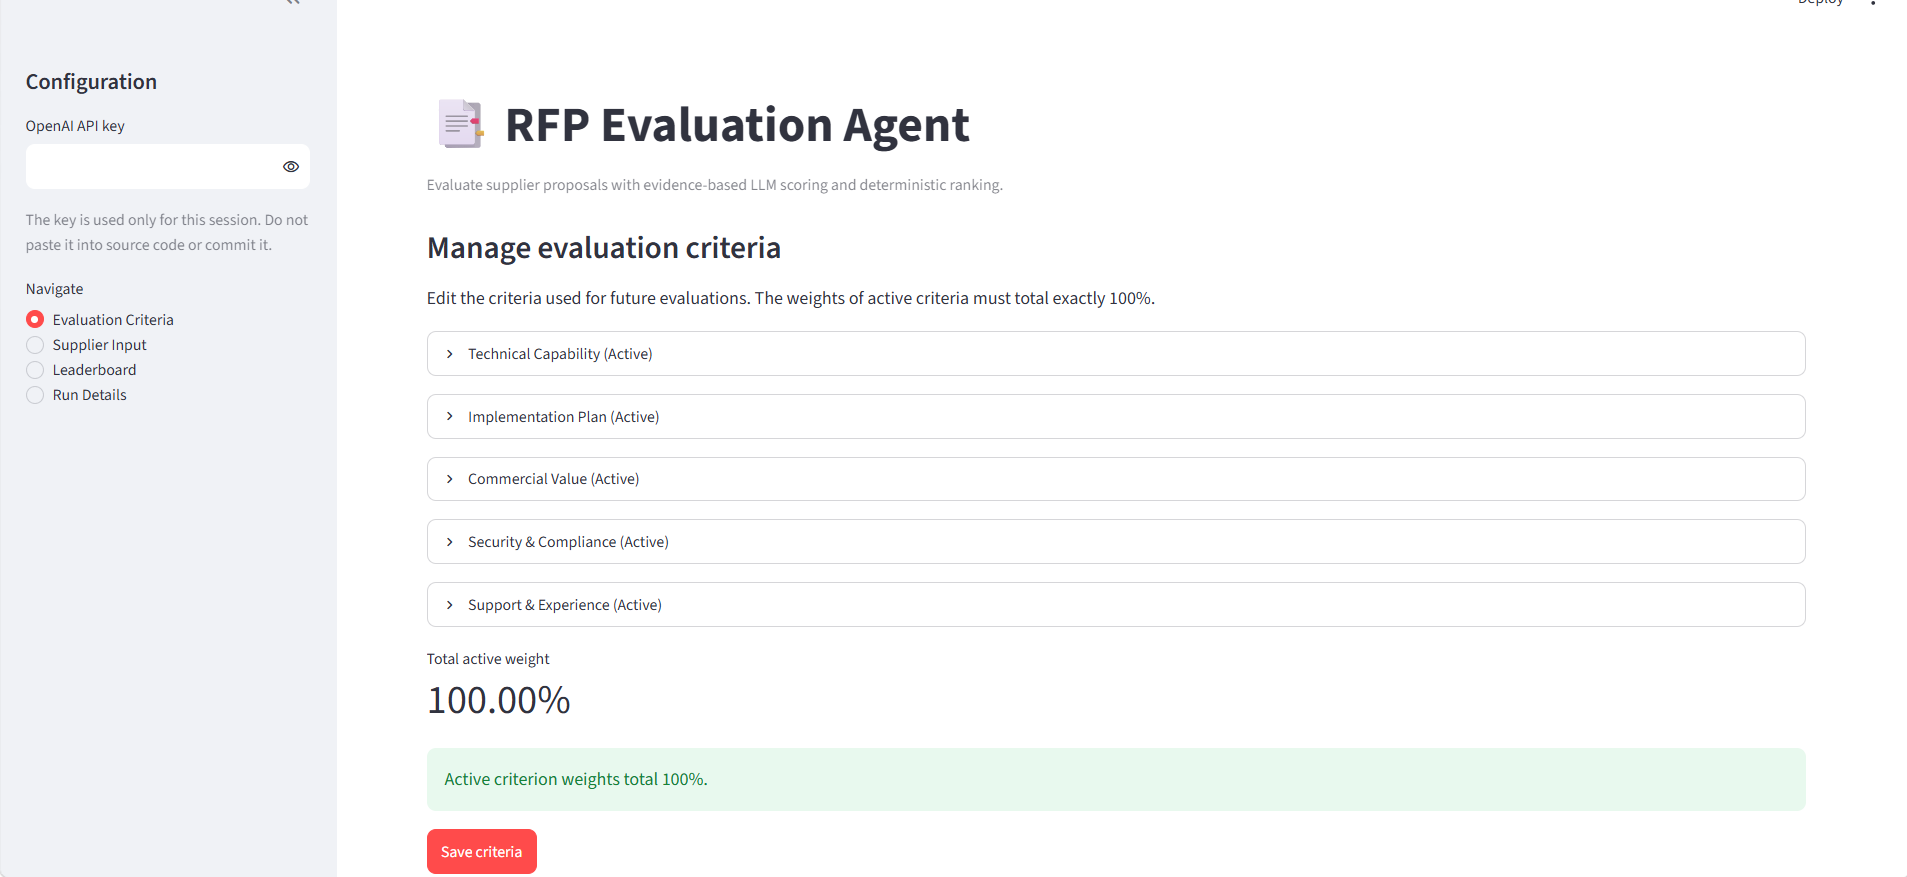
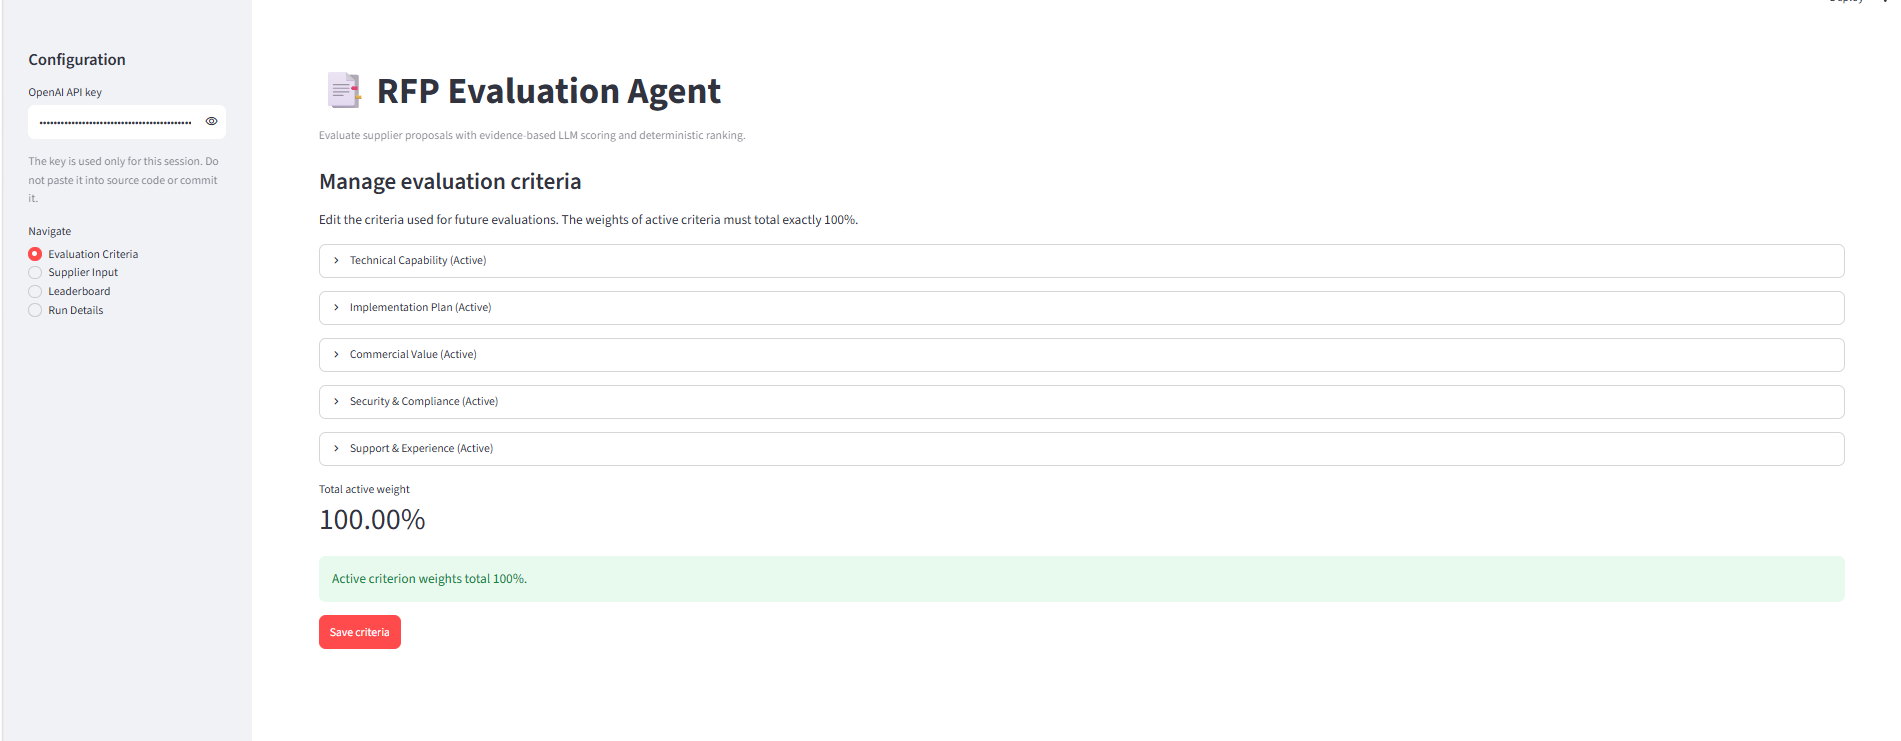
Update submission documentation and evaluation screenshots

diff --git a/README.md b/README.md
@@ -1,20 +1,23 @@
 # RFP Evaluation Agent
 
-A Streamlit application that evaluates supplier proposal PDFs against configurable criteria, generates evidence-based scorecards with an LLM, calculates weighted and peer-relative scores in Python, ranks suppliers deterministically, and stores evaluation runs in SQLite.
+A Streamlit application that evaluates supplier proposal PDFs against configurable criteria. It uses retrieval-augmented generation (RAG) to provide relevant proposal evidence to an LLM, validates the returned scorecards, calculates weighted and peer-relative scores in Python, ranks suppliers deterministically, and stores evaluation runs in SQLite.
 
-> **Demo data:** The included proposals and Run 3/Run 8 outputs are synthetic examples. Scores are decision-support signals, not a substitute for procurement due diligence or human review.
+> **Demo data:** The supplier proposals and validation-test proposal are synthetic. Scores are decision-support signals, not a substitute for procurement due diligence or human review.
 
 ## Features
 
-- Configure criteria, descriptions, weights, maximum scores, and active status in the UI.
+- Configure evaluation criteria, descriptions, weights, maximum scores, and active status in the UI.
 - Require active criterion weights to total 100% before evaluation.
 - Upload multiple supplier proposal PDFs and provide supplier name, submission date, and historical experience rating.
-- Extract text from PDFs and request a JSON scorecard from an LLM.
-- Validate and normalize scorecards before scoring.
+- Extract text from PDFs page by page.
+- Split proposal text into chunks, generate embeddings, and retrieve relevant evidence for each evaluation criterion.
+- Use retrieved evidence as context for the LLM's criterion-level evaluation.
+- Preserve source metadata and display the original PDF filename and page number for retrieved evidence.
+- Validate and normalize LLM scorecards before scoring.
 - Calculate weighted absolute scores, per-criterion peer benchmarks, gaps, relative performance, and Peer Performance Index (PPI) in Python.
 - Apply deterministic ranking and tie-break rules.
 - Persist criteria snapshots, run statuses, warnings, and supplier results in SQLite.
-- Inspect supplier scorecards and download JSON results.
+- Inspect detailed supplier scorecards and download JSON results.
 - Continue a batch when an individual supplier evaluation fails; save successful results and warnings.
 
 ## Technology
@@ -22,23 +25,25 @@ A Streamlit application that evaluates supplier proposal PDFs against configurab
 - Python 3.12
 - Streamlit
 - SQLite
-- OpenAI Python SDK (JSON-mode chat completion)
+- OpenAI Python SDK
+- OpenAI embeddings (`text-embedding-3-small`)
 - `pypdf` for PDF text extraction
 - `pytest` for automated tests
 
 ## Architecture and data flow
 
-1. **Streamlit UI (`app.py`)** — collects criteria, PDF files, supplier metadata, and API key.
-2. **SQLite (`database/db.py`)** — seeds default criteria and stores criteria, run records, criteria snapshots, warnings, and results.
-3. **Document tool (`src/document_tool.py`)** — extracts text from each PDF.
-4. **Evaluation agent (`src/evaluation_agent.py`)** — sends the proposal text and active criteria to the LLM and requests JSON only.
-5. **Validation (`src/validation.py`)** — validates the returned scorecard and handles missing/out-of-range values according to the implementation.
-6. **Orchestrator (`src/orchestrator.py`)** — coordinates evaluation for a supplier.
-7. **Batch processor (`src/batch_processor.py`)** — processes suppliers independently, collects warnings, and ranks successful evaluations.
-8. **Scoring (`src/scoring.py`)** — performs all arithmetic, peer benchmarking, and ranking deterministically.
-9. **Persistence and presentation** — results and warnings are saved in SQLite and presented in the Leaderboard and Run Details screens.
+1. **Streamlit UI (`app.py`)** — collects evaluation criteria, supplier PDFs, supplier metadata, and the session API key; displays leaderboards and detailed scorecards.
+2. **SQLite (`database/db.py`)** — seeds default criteria and stores criteria, run records, criteria snapshots, warnings, and supplier results.
+3. **Document tool (`src/document_tool.py`)** — extracts text from PDFs while retaining original page numbers.
+4. **RAG retriever (`src/rag_retriever.py`)** — chunks page text, creates embeddings in batches, calculates cosine similarity, and retrieves relevant chunks for each criterion.
+5. **Orchestrator (`src/orchestrator.py`)** — coordinates evidence retrieval and supplier evaluation.
+6. **Evaluation agent (`src/evaluation_agent.py`)** — sends the active criteria and retrieved proposal evidence to the LLM and requests a structured JSON scorecard. It maps returned source chunk IDs to trusted filename/page metadata from the retriever.
+7. **Validation (`src/validation.py`)** — validates and normalizes the returned scorecard and preserves valid source references.
+8. **Batch processor (`src/batch_processor.py`)** — processes suppliers independently, collects warnings, and ranks successful evaluations.
+9. **Scoring (`src/scoring.py`)** — performs weighted scoring, peer benchmarking, PPI calculations, and ranking deterministically.
+10. **Persistence and presentation** — results and warnings are saved in SQLite and presented in the Leaderboard and Run Details screens.
 
-The LLM evaluates proposal evidence; it **does not** calculate the final weighted score, peer benchmark, PPI, or rank.
+The LLM evaluates the retrieved proposal evidence. It does **not** calculate the final weighted score, peer benchmark, PPI, or rank. The application uses source chunk IDs to map evidence back to the original PDF filename and page number; users should still verify LLM-generated statements against the cited proposal pages.
 
 ## Default criteria
 
@@ -68,13 +73,13 @@ The UI displays this value as a percentage. For example, `0.665` is displayed as
 - **Benchmark:** highest observed score for that criterion among successfully evaluated suppliers in the same batch.
 - **Gap:** supplier criterion score minus the batch benchmark.
 - **Relative performance:** `(supplier criterion score / benchmark) × 100`.
-- **Zero benchmark:** the current implementation assigns 100% relative performance when the benchmark is zero, preventing division by zero.
+- **Zero benchmark:** the implementation assigns 100% relative performance when the benchmark is zero, preventing division by zero.
 
 ### Peer Performance Index (PPI)
 
 `PPI = Σ (criterion relative performance percentage × criterion weight)`
 
-PPI is a peer-relative measure and can differ from the absolute weighted score. Because it uses the strongest score in the batch as the benchmark, it depends on which suppliers are included in that run.
+PPI is a peer-relative measure and can differ from the absolute weighted score. Because it uses the strongest score in the batch as the benchmark, it depends on which suppliers are included in that run. A single-supplier run will have a PPI of 100% because that supplier is its own benchmark; this does not mean its proposal is excellent.
 
 ### Deterministic ranking
 
@@ -106,12 +111,15 @@ rfp-evaluation-agent-starter/
 │   ├── document_tool.py
 │   ├── evaluation_agent.py
 │   ├── orchestrator.py
+│   ├── rag_retriever.py
 │   ├── scoring.py
 │   └── validation.py
 ├── tests/
 │   ├── test_batch_processor.py
 │   ├── test_database.py
 │   ├── test_evaluation_agent.py
+│   ├── test_rag_integration.py
+│   ├── test_rag_retriever.py
 │   ├── test_scoring.py
 │   ├── test_validation.py
 │   └── test_workflow_integration.py
@@ -126,15 +134,16 @@ rfp-evaluation-agent-starter/
 │   └── rfp_run_8.json
 └── screenshots/
     ├── 01_evaluation_criteria.png
-    ├── 02_supplier_input.png
-    ├── 03_leaderboard.png
-    ├── 04_run_details.png
-    ├── 05_detailed_scorecard.png
-    ├── 06_evidence_and_risks.png
-    └── 07_invalid_pdf_handling.png
+    ├── 02_supplier_leaderboard.png
+    ├── 03_run12_completed_overview.png
+    ├── 04_run12_detailed_scorecard.png
+    ├── 05_run12_evidence_and_identified_risks.png
+    ├── 06_run13_completed_scorecard.png
+    ├── 07_run13_missing_evidence_and_timeline_conflict.png
+    └── 08_run13_commercial_evidence_and_risks.png
 ```
 
-The SQLite database is created at runtime in the `database/` directory and is excluded from Git. The optional screenshots ZIP is not required because the individual screenshots are included above.
+The SQLite database is created at runtime in the `database/` directory and is excluded from Git. Do not commit API keys or confidential supplier data.
 
 ## Run locally on Windows / VS Code
 
@@ -170,28 +179,17 @@ From the project root with `rfp_agent` activated:
 python -m pytest -v
 ```
 
-At the time this documentation was prepared, **15 tests passed**, including tests for batch failure handling, database persistence, LLM response validation, deterministic scoring, and workflow integration. Rerun the command after code changes and before submission.
+The current test suite contains **28 passing tests** (verified on 30 October 2026). Tests cover batch failure handling, database persistence, LLM response validation, retrieved evidence and PDF source mapping, RAG chunking and similarity, deterministic scoring, and workflow integration. Rerun the command after code changes and before submission.
 
-## Sample output
+## Sample evaluation runs
 
-### Run 8
+- `sample_outputs/rfp_run_3.json` and `sample_outputs/rfp_run_8.json` are earlier synthetic evaluation exports.
+- The screenshots also show Run 12, a four-supplier completed evaluation with criterion-level evidence and PDF page references.
+- Run 13 uses a deliberately incomplete synthetic proposal to demonstrate how the evaluator handles missing technical details, a conflicting implementation timeline, and a more complete commercial section.
 
-`sample_outputs/rfp_run_8.json` contains the JSON export from Run 8. It includes four ranked suppliers:
+For Run 13, the synthetic proposal states an 8-week implementation in its summary while its phase schedule totals 22 weeks. The scorecard identifies this contradiction. The commercial section states an implementation fee of INR 48,00,000 and first-year support of INR 6,00,000, for a stated combined total of INR 54,00,000 excluding taxes.
 
-| Rank | Supplier | Absolute score | PPI |
-|---:|---|---:|---:|
-| 1 | Apex Systems | 66.50% | 95.00% |
-| 2 | Nexaworks | 63.00% | 90.00% |
-| 3 | Orbit Digital | 51.00% | 71.67% |
-| 4 | Brightpath Tech | 33.50% | 47.50% |
-
-### Run 3 and PDF validation
-
-`sample_outputs/rfp_run_3.json` contains the results of an additional evaluation run using four synthetic supplier proposals.
-
-The deployed application was also tested with an image-only PDF. The application displayed a validation message indicating that no extractable text was found, rather than crashing. The corresponding screenshot is `screenshots/07_invalid_pdf_handling.png`.
-
-All proposals used for demonstration are synthetic. LLM-generated evaluations may vary between runs, while the Python scoring and ranking calculations are deterministic for fixed scorecards and supplier metadata.
+LLM-generated evaluations may vary between runs. The Python scoring and ranking calculations are deterministic for fixed scorecards and supplier metadata.
 
 ## Screenshots
 
@@ -199,49 +197,56 @@ All proposals used for demonstration are synthetic. LLM-generated evaluations ma
 
 ![Evaluation criteria](screenshots/01_evaluation_criteria.png)
 
-Shows the configurable evaluation criteria, active status, weights, and total active weight validation.
+Shows configurable evaluation criteria, active status, weights, and total active weight validation.
 
-### 2. Supplier input
+### 2. Supplier leaderboard
 
-![Supplier input](screenshots/02_supplier_input.png)
+![Supplier leaderboard](screenshots/02_supplier_leaderboard.png)
 
-Shows supplier information, submission dates, historical experience ratings, and proposal upload controls.
+Shows supplier rankings, absolute weighted scores, Peer Performance Index (PPI), and JSON download option.
 
-### 3. Leaderboard
+### 3. Run 12 completed overview
 
-![Leaderboard](screenshots/03_leaderboard.png)
+![Run 12 completed overview](screenshots/03_run12_completed_overview.png)
 
-Shows supplier rankings, absolute weighted scores, Peer Performance Index (PPI), and the JSON download option.
+Shows a completed four-supplier evaluation run.
 
-### 4. Run details
+### 4. Run 12 detailed scorecard
 
-![Run details](screenshots/04_run_details.png)
-
-Shows the selected evaluation run, its status, and detailed supplier evaluation information.
-
-### 5. Detailed scorecard
-
-![Detailed scorecard](screenshots/05_detailed_scorecard.png)
+![Run 12 detailed scorecard](screenshots/04_run12_detailed_scorecard.png)
 
 Shows criterion-level scores, weights, peer benchmarks, gaps, and relative performance.
 
-### 6. Evidence and risks
+### 5. Run 12 evidence and identified risks
 
-![Evidence and risks](screenshots/06_evidence_and_risks.png)
+![Run 12 evidence and risks](screenshots/05_run12_evidence_and_identified_risks.png)
 
-Shows LLM-generated justifications, supporting evidence, and identified supplier risks.
+Shows LLM-generated justifications, supporting evidence, source filenames and PDF page references, and identified supplier risks.
 
-### 7. Invalid PDF handling
+### 6. Run 13 validation-test scorecard
 
-![Invalid PDF handling](screenshots/07_invalid_pdf_handling.png)
+![Run 13 completed scorecard](screenshots/06_run13_completed_scorecard.png)
 
-Shows the validation response when an uploaded image-only PDF contains no extractable text.
+Shows the completed evaluation of the deliberately incomplete synthetic test proposal.
+
+### 7. Missing technical evidence and conflicting timeline
+
+![Missing evidence and timeline conflict](screenshots/07_run13_missing_evidence_and_timeline_conflict.png)
+
+Shows that missing technical details and the conflicting 8-week versus 22-week implementation timeline were identified.
+
+### 8. Commercial evidence and identified risks
+
+![Commercial evidence and risks](screenshots/08_run13_commercial_evidence_and_risks.png)
+
+Shows extraction of the commercial amounts and the proposal's identified risks.
 
 ## Assumptions and limitations
 
 - PDF text extraction works for text-based PDFs. Scanned/image-only PDFs may require OCR, which is not included in the current implementation.
-- LLM-generated scores and justifications may be imperfect. Review evidence and risks before making procurement decisions.
-- A scorecard's evidence is a text explanation from the proposal; the current implementation does not guarantee page-number citations.
+- RAG retrieval depends on the quality of PDF text extraction, chunking, embeddings, and similarity ranking. Relevant evidence may be missed.
+- Retrieved source references identify the PDF pages containing the selected chunks. They do not independently prove that every LLM-generated sentence is fully supported by those pages.
+- LLM-generated scores, justifications, and risks may be imperfect. Review the original proposal pages before making procurement decisions.
 - Peer benchmarks and PPI are batch-relative. Comparing PPI across different supplier batches may be misleading.
 - A failed supplier is excluded from the successful suppliers' ranking and recorded as a warning. If all suppliers fail, the run is marked failed.
 - SQLite is appropriate for a local demo. A hosted app's local filesystem may not provide durable database storage across restarts/redeployments; verify persistence requirements before relying on SQLite for public deployment.
@@ -249,13 +254,13 @@ Shows the validation response when an uploaded image-only PDF contains no extrac
 
 ## Deployment checklist
 
-1. Push the reviewed source, tests, requirements, synthetic PDFs, sample JSON, README, and screenshots to a Git repository.
+1. Push the reviewed source, tests, requirements, synthetic PDFs, sample JSON, README, and screenshots to the Git repository.
 2. Ensure `.env`, API keys, and `database/*.db` are excluded by `.gitignore`.
-3. Create the app on Streamlit Community Cloud and select the repository, branch, and `app.py` entry point.
+3. Configure the Streamlit Community Cloud app to use the intended repository, branch, and `app.py` entry point.
 4. Configure secrets securely if the app is changed to read a server-side key. Do not commit secrets.
 5. Confirm dependency installation and test the deployed app with synthetic proposals.
 6. Verify how database persistence behaves on the hosting platform before treating saved runs as durable.
-7. Record the public app URL and capture a short demo of one successful evaluation and one validation/error case.
+7. Record the public app URL and capture a short demonstration of one successful evaluation and one evidence-quality/validation test case.
 
 ## Responsible use
 
